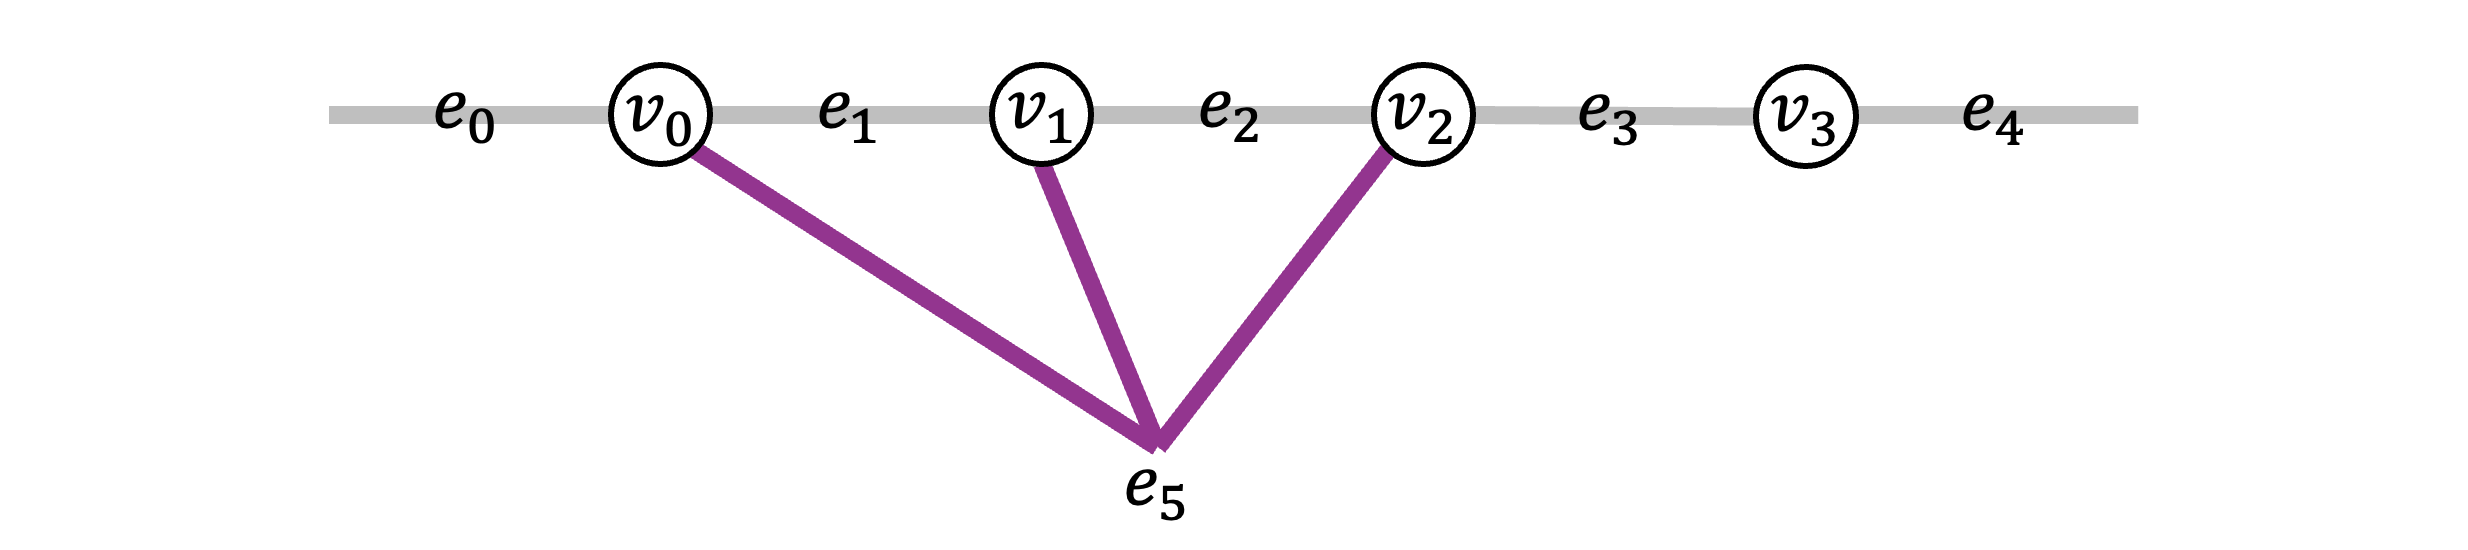
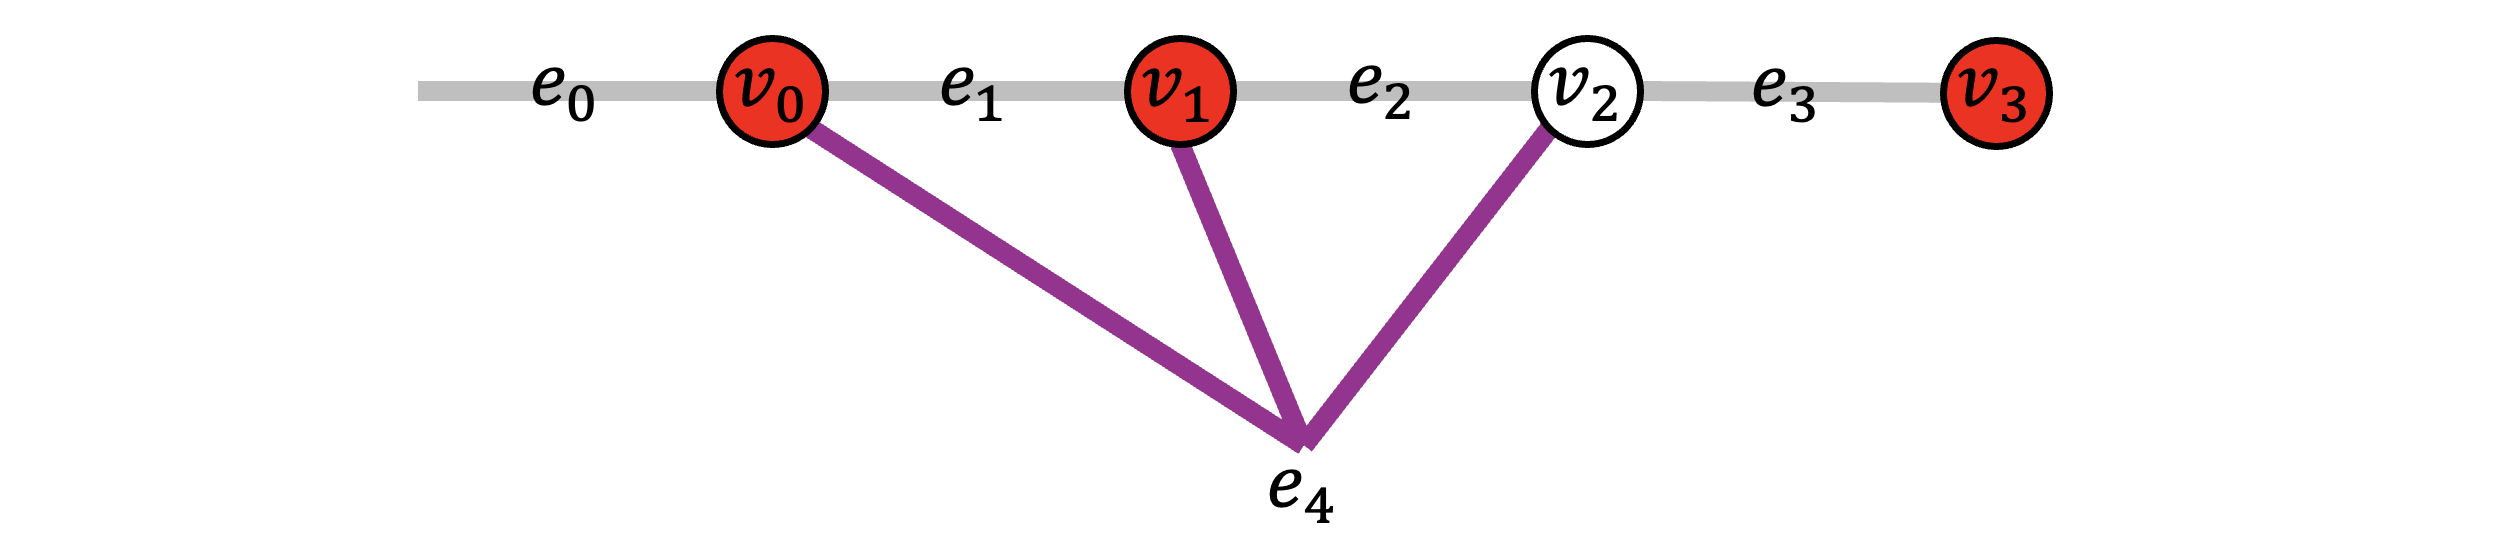
update figure

Changed region(s): [[0.1248, 0.0618, 0.8736, 0.8345], [0.4368, 0.8655, 0.5304, 0.9582]]

diff --git a/images/example_hypergraph.py b/images/example_hypergraph.py
@@ -1,0 +1,21 @@
+from mwpf import HyperEdge, SolverInitializer, SolverSerialJointSingleHair, SyndromePattern
+
+# Offline
+vertex_num = 4
+weighted_edges = [
+    HyperEdge([0, 1], 100),  # [vertices], weight
+    HyperEdge([1, 2], 100),
+    HyperEdge([2, 3], 100),
+    HyperEdge([0], 100),  # boundary vertex
+    HyperEdge([0, 1, 2], 60),  # hyperedge
+]
+initializer = SolverInitializer(vertex_num, weighted_edges)
+hyperion = SolverSerialJointSingleHair(initializer)
+
+# Online
+syndrome = [0, 1, 3]
+hyperion.solve(SyndromePattern(syndrome))
+hyperion_subgraph = hyperion.subgraph()
+print(hyperion_subgraph)  # out: [2, 4]
+_, bound = hyperion.subgraph_range()
+print((bound.lower, bound.upper))  # out: (Fraction(160, 1), Fraction(160, 1))
